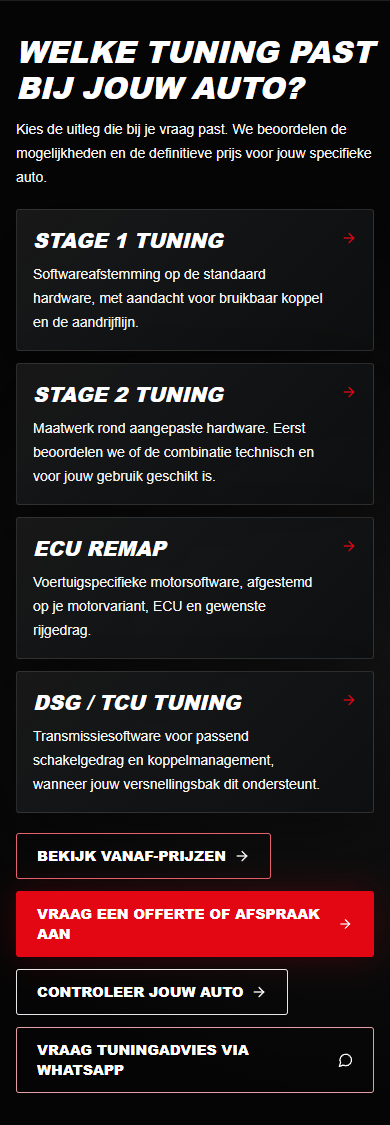
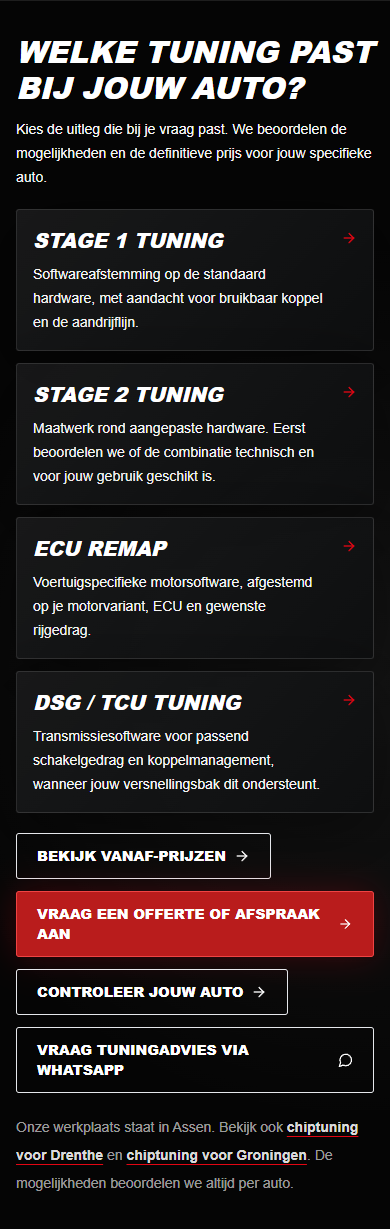
Improve NL regional discovery, Groningen content and tracked CTAs (#21)
Strengthen real Assen/Groningen service information, link regional pages and approved customer evidence, and reuse existing privacy-safe CTA tracking.

diff --git a/src/content/seo-landings.ts b/src/content/seo-landings.ts
@@ -171,62 +171,66 @@ export const seoLandings: SeoLanding[] = [
     parentKey: "chiptuning",
     heroImage: "/images/sections/bench-ecu-service.webp",
     seo: {
-      title: "Chiptuning Groningen | ECU Remap vlakbij Groningen | NoordTune.nl",
+      title: "Chiptuning Groningen | Stage 1 & ECU-remap in Assen | NoordTune.nl",
       description:
-        "Chiptuning voor Groningen en Noord-Nederland. NoordTune.nl in Assen levert ECU remap, Stage 1 tuning, Stage 2 advies en auto diagnose."
+        "Chiptuning voor automobilisten uit Groningen bij NoordTune in Assen. Stage 1 en ECU-remap per voertuig. Bekijk echte resultaten en vraag een offerte."
     },
     hero: {
       eyebrow: "Chiptuning Groningen",
-      title: ["Meer respons", "vlakbij Groningen"],
+      title: ["Chiptuning voor Groningen", "vanuit Assen"],
       intro:
-        "Voor bestuurders uit Groningen die een technische, zorgvuldige aanpak zoeken voor ECU remap en diagnose.",
+        "Kom je uit Groningen of omgeving en zoek je Stage 1 of een ECU-remap? NoordTune beoordeelt en programmeert ondersteunde voertuigen vanuit de werkplaats in Assen.",
       primary: "Controleer jouw auto",
       secondary: "WhatsApp ons"
     },
     sections: [
       {
-        kicker: "Regio Groningen",
-        title: "Een korte rit naar Assen voor tuning met aandacht.",
+        kicker: "Werkplaats in Assen",
+        title: "Chiptuning aanvragen vanuit Groningen: eerst de auto bespreken.",
         text:
-          "NoordTune.nl ligt praktisch voor klanten uit Groningen, Haren, Hoogezand, Veendam, Stadskanaal en omgeving. We combineren tuning met diagnose en duidelijke uitleg, zodat je weet wat er aan je auto gebeurt en waarom een bepaalde oplossing past.",
-        bullets: ["ECU remap voor Groningen", "Diagnose en loganalyse mogelijk", "Power Catalog voor eerste indicatie"],
+          "NoordTune heeft een werkplaats in Assen, geen vestiging in Groningen. Kom je uit Groningen of de omgeving, dan kun je vooraf via WhatsApp of de contactpagina je auto en wensen bespreken. We kijken naar motorvariant, ECU, softwareversie, transmissie en technische staat voordat we een geschikte programmeermethode of vervolgstap adviseren. Zo weet je waar de afspraak in Assen voor bedoeld is.",
+        bullets: ["Werkplaats in Assen", "Beoordeling per motor en ECU-versie", "Offerte en afspraak vooraf afstemmen"],
         image: "/images/sections/bench-ecu-service.webp"
       },
       {
-        kicker: "Rijgedrag",
-        title: "Niet alleen sneller, vooral fijner rijden.",
+        kicker: "Stage 1 en ECU-remap",
+        title: "De mogelijkheden hangen af van de software en de staat van jouw auto.",
         text:
-          "Een goede remap geeft meer trekkracht in het bruikbare toerengebied, betere gaspedaalrespons en vaak meer rust bij normaal rijden. Dat maakt tuning interessant voor dagelijkse auto's, zakelijke rijders en liefhebbers die hun auto net scherper willen maken."
+          "Bij een ondersteunde ECU en een technisch gezonde auto met standaard hardware kan Stage 1 een passende keuze zijn. We richten ons op bruikbaar koppel, gaspedaalrespons en een logische vermogensopbouw, niet op een vaste winst voor ieder model. Heeft jouw auto aangepaste hardware of een automaat? Dan bespreken we apart of maatwerksoftware, Stage 2 of DSG/TCU-afstemming technisch passend en wettelijk toegestaan is."
       },
       {
-        kicker: "Zekerheid",
-        title: "Realistisch advies als de auto eerst aandacht nodig heeft.",
+        kicker: "Echt klantresultaat",
+        title: "Bekijk een afgeronde Stage 1-case en vraag jouw eigen offerte.",
         text:
-          "Als diagnose laat zien dat sensoren, turbodruk, EGR, DPF, AdBlue of transmissiegedrag niet kloppen, bespreken we eerst de juiste vervolgstap. Een gezonde basis blijft belangrijker dan direct tunen."
+          "In ons gepubliceerde project van een Volkswagen Caddy 2.0 TDI uit 2020 zie je de resultaten die bij die specifieke auto horen. De cijfers zijn geen belofte voor jouw voertuig en zeggen niets over de woonplaats van de klant. Controleer jouw uitvoering in de Power Catalog, bekijk de richtprijzen en vraag daarna een persoonlijke offerte of afspraak in Assen aan."
       }
     ],
     faqs: [
       {
-        question: "Is NoordTune.nl bereikbaar vanuit Groningen?",
+        question: "Waar wordt chiptuning voor klanten uit Groningen uitgevoerd?",
         answer:
-          "Ja. De werkplaats in Assen is goed bereikbaar vanuit Groningen en omliggende plaatsen in Noord-Nederland."
+          "Bij NoordTune in Assen. We hebben geen vestiging in Groningen. Je kunt vooraf de mogelijkheden van jouw auto bespreken en een afspraak in Assen aanvragen."
       },
       {
-        question: "Kan ik mijn kenteken vooraf sturen?",
+        question: "Is Stage 1 mogelijk voor mijn auto?",
         answer:
-          "Graag. Stuur je kenteken of motorcode via WhatsApp, of controleer de auto eerst in de Power Catalog."
+          "Dat hangt af van de exacte motor, ECU, softwareversie en technische staat. De Power Catalog geeft een eerste indicatie; definitief advies volgt na beoordeling van jouw voertuig."
       },
       {
-        question: "Doen jullie ook diagnose bij storing?",
+        question: "Hoe vraag ik vanuit Groningen een tuningofferte aan?",
         answer:
-          "Ja. Auto diagnose en loganalyse zijn juist belangrijk wanneer er storingen of twijfel over de technische staat zijn."
+          "Stuur via WhatsApp of de contactpagina je kenteken of exacte model, motor, bouwjaar en wensen. We bespreken de mogelijkheden en de prijs voordat je een afspraak in Assen maakt."
       }
     ],
     related: [
-      {label: "Auto diagnose", href: pathFor("nl", "diagnose")},
+      {label: "Onze chiptuningaanpak", href: pathFor("nl", "chiptuning")},
       {label: "Stage 1 tuning", href: "/nl/stage-1-tuning"},
-      {label: "Prijzen", href: pathFor("nl", "prijzen")},
-      {label: "Resultaten", href: pathFor("nl", "resultaten")}
+      {label: "ECU-remap", href: "/nl/ecu-remap"},
+      {label: "Volkswagen Caddy 2.0 TDI: echte Stage 1-case", href: "/nl/resultaten/vw-caddy-20-tdi-2020-stage-1"},
+      {label: "Klantresultaten", href: pathFor("nl", "resultaten")},
+      {label: "Bekijk de richtprijzen", href: pathFor("nl", "prijzen")},
+      {label: "Vraag een persoonlijke offerte", href: pathFor("nl", "contact")},
+      {label: "Vraag een afspraak in Assen aan", href: pathFor("nl", "appointment")}
     ]
   },
   {

diff --git a/scripts/test-service-journey-browser.ts b/scripts/test-service-journey-browser.ts
@@ -85,6 +85,11 @@ async function main() {
         assert.equal(await page.locator(`[data-service-journey] nav a[href="/nl/${service}"]`).count(), 1);
         assert.equal((await context.request.get(`${baseUrl}/nl/${service}`)).status(), 200);
       }
+      for (const region of ["drenthe", "groningen"]) {
+        const path = `/nl/chiptuning-${region}`;
+        assert.equal(await page.locator(`[data-service-journey] a[href="${path}"]`).count(), 1);
+        assert.equal((await context.request.get(`${baseUrl}${path}`)).status(), 200);
+      }
       await checkActions(page, "[data-service-journey]");
       await page.locator("[data-service-journey]").screenshot({path: join(output, `chooser-${viewport.width}x${viewport.height}.png`), style: "header, a.fixed {visibility: hidden !important;}"});
       if (viewport.width === 390) {
@@ -96,6 +101,17 @@ async function main() {
           ]);
           assert.ok(await page.locator("main").innerText());
         }
+      }
+      if (viewport.width === 390) {
+        await basics(page, "/nl/stage-1-tuning");
+        const catalogActions = page.locator('main a[data-analytics-event="power_catalog_click"]');
+        const whatsappActions = page.locator('main a[data-analytics-event="whatsapp_click"]');
+        assert.ok(await catalogActions.count() >= 3, "Hero and content sections must track catalog actions");
+        assert.ok(await whatsappActions.count() >= 3, "Hero and content sections must track WhatsApp actions");
+        await page.evaluate(() => { window.__ntAnalyticsEvents.length = 0; });
+        await page.locator("main > section").first().locator('[data-analytics-event="power_catalog_click"]').click();
+        const events = await page.evaluate(() => window.__ntAnalyticsEvents.filter((entry: unknown[]) => entry[0] === "event"));
+        assert.deepEqual(JSON.parse(JSON.stringify(events)), [["event", {name: "power_catalog_click", data: {locale: "nl", source: "site_cta"}}]]);
       }
       for (const proof of proofCases) {
         await basics(page, `/nl/${proof.service}`);

diff --git a/src/components/page-hero.tsx b/src/components/page-hero.tsx
@@ -2,6 +2,7 @@ import Image from "next/image";
 import {ButtonLink} from "@/components/button";
 import type {PageHeroCopy} from "@/content/copy";
 import {pathFor, site, type Locale, type PageKey} from "@/content/site";
+import type {ConversionEvent} from "@/lib/analytics";
 
 type PageHeroProps = {
   copy: PageHeroCopy;
@@ -52,6 +53,13 @@ function hrefForLabel(label: string, locale: Locale, pageKey: PageKey) {
   return pathFor(locale, "contact");
 }
 
+function heroConversion(href: string, locale: Locale): ConversionEvent | undefined {
+  if (href === site.catalogUrl) return {name: "power_catalog_click", properties: {locale, source: "site_cta"}};
+  if (href === site.whatsappUrl) return {name: "whatsapp_click", properties: {locale, source: "site_cta"}};
+  if (href === pathFor(locale, "appointment")) return {name: "appointment_click", properties: {locale, source: "site_cta"}};
+  return undefined;
+}
+
 export function PageHero({copy, image, locale, pageKey}: PageHeroProps) {
   const primaryHref = pageKey === "contact" ? "#contact" : pageKey === "appointment" ? "#enquiry" : hrefForLabel(copy.primary, locale, pageKey);
   const secondaryHref = hrefForLabel(copy.secondary, locale, pageKey);
@@ -84,10 +92,11 @@ export function PageHero({copy, image, locale, pageKey}: PageHeroProps) {
           </h1>
           <p className="mt-6 max-w-2xl text-base leading-8 text-white/78 md:text-lg">{copy.intro}</p>
           <div className="mt-7 flex flex-wrap gap-3">
-            <ButtonLink href={primaryHref} icon={primaryHref === site.whatsappUrl ? "whatsapp" : "arrow"}>
+            <ButtonLink analytics={heroConversion(primaryHref, locale)} href={primaryHref} icon={primaryHref === site.whatsappUrl ? "whatsapp" : "arrow"}>
               {copy.primary}
             </ButtonLink>
             <ButtonLink
+              analytics={heroConversion(secondaryHref, locale)}
               href={secondaryHref}
               icon={secondaryHref === site.whatsappUrl ? "whatsapp" : "arrow"}
               variant="outline"

diff --git a/tests/seo-freshness.test.ts b/tests/seo-freshness.test.ts
@@ -18,6 +18,7 @@ import {
   translatedCustomerResultSlugs
 } from "../src/content/customer-results";
 import {locales, site} from "../src/content/site";
+import {seoLandingFromSlug} from "../src/content/seo-landings";
 import sitemap from "../src/app/sitemap";
 import {
   articleJsonLd,
@@ -150,4 +151,22 @@ test("sitemap omits unverifiable modification dates but retains editorial dates"
   const resultEntry = entries.find((item) => item.url === customerResultUrl(result));
   assert.ok(resultEntry?.lastModified);
   assert.equal(new Date(resultEntry.lastModified).toISOString().slice(0, 10), result.updatedAt);
+});
+
+test("Groningen tuning landing communicates the real Assen location and routes to a verified case", () => {
+  const page = seoLandingFromSlug("nl", "chiptuning-groningen");
+  assert.ok(page);
+  assert.ok(page.seo.title.includes("Groningen"));
+  assert.ok(page.hero.intro.includes("Assen"));
+  assert.ok(page.sections.some((section) => section.text.includes("geen vestiging in Groningen")));
+  assert.ok(page.sections.some((section) => section.text.includes("Volkswagen Caddy 2.0 TDI")));
+  for (const href of [
+    "/nl/chiptuning",
+    "/nl/resultaten/vw-caddy-20-tdi-2020-stage-1",
+    "/nl/prijzen",
+    "/nl/contact",
+    "/nl/afspraak"
+  ]) {
+    assert.ok(page.related.some((link) => link.href === href), "Missing Groningen enquiry or proof link: " + href);
+  }
 });

diff --git a/src/components/seo-landing-renderer.tsx b/src/components/seo-landing-renderer.tsx
@@ -66,6 +66,7 @@ export function SeoLandingRenderer({page}: {page: SeoLanding}) {
         <PageHero copy={page.hero} image={page.heroImage} locale={page.locale} pageKey={page.parentKey} />
         {firstSection ? (
           <RichInfoSection
+            analyticsLocale={page.locale}
             bullets={firstSection.bullets}
             image={firstSection.image ?? page.heroImage}
             kicker={firstSection.kicker}
@@ -83,6 +84,7 @@ export function SeoLandingRenderer({page}: {page: SeoLanding}) {
         {page.locale === "nl" ? <TuningCustomerProof slug={page.slug} /> : null}
         <PowerCatalogSection locale={page.locale} />
         <RichInfoSection
+          analyticsLocale={page.locale}
           image="/images/heroes/blog.png"
           kicker={copy.related}
           links={page.related}

diff --git a/src/components/tuning-service-journey.tsx b/src/components/tuning-service-journey.tsx
@@ -40,6 +40,13 @@ export function TuningServiceNavigation() {
         ))}
       </nav>
       <EnquiryLinks />
+      <p className="mt-5 text-sm leading-7 text-white/60">
+        Onze werkplaats staat in Assen. Bekijk ook{" "}
+        <Link className="font-semibold text-white/85 underline decoration-primary underline-offset-4 hover:text-primary" href="/nl/chiptuning-drenthe">chiptuning voor Drenthe</Link>{" "}
+        en{" "}
+        <Link className="font-semibold text-white/85 underline decoration-primary underline-offset-4 hover:text-primary" href="/nl/chiptuning-groningen">chiptuning voor Groningen</Link>.
+        De mogelijkheden beoordelen we altijd per auto.
+      </p>
     </section>
   );
 }

diff --git a/docs/NL_LOCAL_DISCOVERY_TRACKING_REPORT.md b/docs/NL_LOCAL_DISCOVERY_TRACKING_REPORT.md
@@ -1,0 +1,57 @@
+# NoordTune — NL service-area discovery and conversion tracking
+
+Date: 2026-10-09
+Branch: `feature/nl-local-discovery-tracking-2026-10`
+Base: main at `58a87deb754f8119e58652d0fc4ea8f585a906f7`
+
+## Business objective
+
+Increase discoverability of the existing Drenthe and Groningen tuning pages from the already-visible /nl/chiptuning page and close a specific conversion-measurement gap on published service landing pages. No new locations, services, offers or landing pages.
+
+## Verified supporting data
+
+Windsor.ai Search Console, `sc-domain:noordtune.nl`, Netherlands only, July 1–October 5, 2026:
+- `chiptuning assen`: 181 impressions / 9 clicks / 9.35 average position.
+- `chiptuning drenthe`: 72 impressions / 0 clicks / 20.11 average position.
+- `chiptuning groningen`: 367 impressions / 0 clicks / 64.35 average position.
+
+Earlier authorized Google URL Inspection (October 9) found /nl/chiptuning-drenthe unknown to Google and /nl/chiptuning-groningen discovered but currently not indexed. Those observations do not identify the cause, and the new internal links do not guarantee indexing.
+
+## Actual changes
+
+1. `src/components/tuning-service-journey.tsx`: one short, natural Dutch paragraph after the existing service chooser. It explicitly locates NoordTune in Assen and links to the already-existing `/nl/chiptuning-drenthe` and `/nl/chiptuning-groningen` URLs. No new geographic claims or page sections.
+2. `src/components/page-hero.tsx`: existing destination-based conversion events are used for Power Catalog, WhatsApp and appointment PageHero buttons. The event name/shape is unchanged; exactly `locale` and `source: "site_cta"`. Internal anchor links and other navigation are not falsely counted as conversions.
+3. `src/components/seo-landing-renderer.tsx`: passes the already-supported locale to both existing rich-info CTA sections. The existing `RichInfoSection` can now record its catalog and WhatsApp actions without new dependencies, providers or event contracts.
+4. `scripts/test-service-journey-browser.ts`: adds checks for both visible local links and their HTTP 200 targets; verifies the hero and rich-section tracked buttons and exactly one safe event for a catalog click.
+5. Updated only the mobile and iPad chooser screenshots; no unrelated rendered screenshots intentionally changed.
+6. `src/content/seo-landings.ts`: strengthened only the existing NL Groningen landing page, with an explicit Assen workshop location, specific Stage 1 / ECU-remap suitability explanation, a verified Volkswagen Caddy Stage 1 project link and direct pricing/contact/appointment paths. Removed unsupported travel-time framing and diagnostic-first positioning. The Groningen SEO title, description, H1 and FAQ were clarified without changing its URL.
+
+There are no changes to customer-result facts, pricing, canonical/hreflang/sitemap/redirect logic, workshop/footer credit, Power Catalog or its links. Only the existing Groningen page's SEO title and description were revised; other SEO metadata is unchanged. No new event names or properties; no personal vehicle/contact/enquiry data sent to analytics.
+
+## QA
+
+- `pnpm install --frozen-lockfile`: PASS
+- `pnpm lint`: PASS
+- `pnpm typecheck`: PASS
+- `pnpm content:audit`: PASS
+- `pnpm test:analytics`: PASS (6/6)
+- `pnpm test:seo`: PASS (10/10, including a focused Groningen location and customer-proof regression test)
+- `pnpm build`: PASS (141 static pages)
+- `pnpm exec tsx scripts/test-service-journey-browser.ts`: PASS on 390×844, 430×932, 768×1024, 820×1180, 1180×820 and 1440×1000. Link targets, one H1, existing customer proof, NL/EN/PL routes, correct single conversion events and privacy fields, no horizontal overflow and no console/runtime errors.
+
+The browser test ran against a local production build on port 3002. External navigation and analytics intake were intercepted; no real WhatsApp message, email or production tracking event was sent. No full hosted-preview QA or measured SEO/ranking outcome is claimed.
+
+## Delivery and next step
+
+Open draft PR to main. Do not merge without owner approval. Review the preview, then assess search coverage and qualified NL tuning enquiries after Google recrawls. The separate Power Catalog app at `power.noordtune.nl` was not modified; destination remains exactly `https://power.noordtune.nl/`.
+
+## October 9 Groningen refinement and investigation
+
+- The production `/` URL was checked using a Googlebot user agent without Accept-Language: HTTP 307 to `/nl`. Direct requests for `/nl`, `/nl/chiptuning-groningen` and `/nl/chiptuning-drenthe` all returned HTTP 200. This does not establish why Search Console historically chose `/` over `/nl` as a homepage canonical.
+- Google Search Central recommends accessible, distinct language-specific URLs and cautions about automatic language redirects: https://developers.google.com/search/docs/advanced/crawling/managing-multi-regional-sites . Current redirect behavior remains unchanged pending stronger index/canonical evidence.
+- The Groningen page now clearly states that the actual NoordTune workshop is in Assen, with no Groningen branch, and offers a vehicle-specific path from Power Catalog to quote and appointment. It links to the existing approved Volkswagen Caddy 2.0 TDI (2020) Stage 1 result, not a fabricated regional project.
+- No changes were made to `robots.txt`, canonical/hreflang, sitemap, redirects, analytics payload contracts, publication dates or Power Catalog. No index request or sitemap resubmission was performed.
+- Focused local production-build Playwright smoke after the final update: PASS at 390×844, 820×1180 and 1440×900. Verified local H1, accurate workshop reference, self-canonical, proof/pricing/contact/appointment links all HTTP 200, reciprocal region discovery from `/nl/chiptuning`, no horizontal overflow and no console or runtime errors. External Vercel Analytics collection was intercepted. An initial harness-only 404 was identified as the absent local `/_vercel/insights/script.js` and resolved by intercepting that script in the QA harness; no production application change was needed.
+- The final lint, typecheck, content audit, 10 SEO tests and Next.js build (141 generated pages) all passed.
+
+Recheck these regional URLs with Google URL Inspection after publishing meaningful changes and allowing adequate recrawl time. Improved internal linking and content do not guarantee indexing or ranking improvements.
